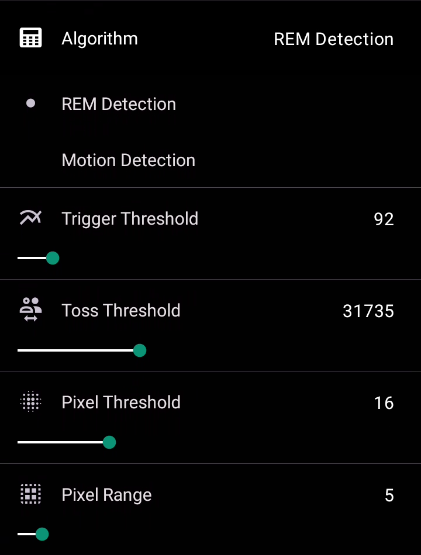
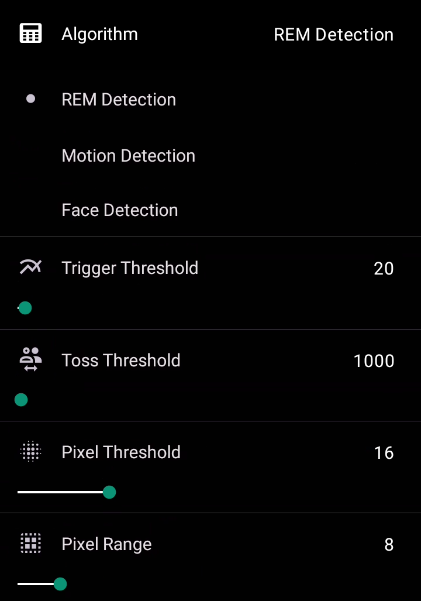
Make face detection configurable

diff --git a/software/inspec.py b/software/inspec.py
@@ -4,6 +4,7 @@ import ujson
 import machine
 import utime
 import time
+import image
 from led import lights
 from lsd import lucid_scribe_data
 from rem import rapid_eye_movement
@@ -21,19 +22,18 @@ class inspec_sensor:
         self.comms = inspec_comms()
         self.comms.message_received = self.ble_message_received
 
-        self.configure_sensor()
+        self.led = lights(self.config)
+        self.lsd = lucid_scribe_data(self.config)
+        self.face = face_detection(self.config, self.comms)
+        self.rem = rapid_eye_movement(self.config, self.face)
 
+        self.configure_sensor()
         self.img = sensor.snapshot()
         self.extra_fb.replace(self.img)
         self.total_variances = 0
         self.variances = 0
         
         machine.RTC().datetime((self.config.config['Year'], self.config.config['Month'], self.config.config['Day'], 0, 0, 0, 0, 0))
-        
-        self.led = lights(self.config)
-        self.lsd = lucid_scribe_data(self.config)
-        self.face = face_detection(self.config, self.comms)
-        self.rem = rapid_eye_movement(self.config, self.face)
 
         self.eye_movements = 0
         self.last_trigger = utime.ticks_ms() - self.config.config['TimeBetweenTriggers']
@@ -73,6 +73,8 @@ class inspec_sensor:
         if self.config.config['PixelFormat'] == 'JPEG':
             sensor.set_pixformat(sensor.JPEG)
             self.extra_fb = sensor.alloc_extra_fb(sensor.width(), sensor.height(), sensor.JPEG)
+
+        self.face.face_cascade = image.HaarCascade("frontalface", stages=self.config.config['FaceStages'])
 
         if self.config.config['TrackFace']:
             sensor.set_contrast(3)

diff --git a/software/config.py b/software/config.py
@@ -33,7 +33,10 @@ class inspec_config:
         self.config['CreateGifs'] = 1
         self.config['TrackFace'] = 0
         self.config['FaceFeatures'] = 16
-        self.config['DrawFace'] = 0
+        self.config['DrawFaceRegion'] = 0
+        self.config['FaceStages'] = 25
+        self.config['FaceThreshold'] = 0.75
+        self.config['FaceScaleFactor'] = 1.25
         self.config['BlinkCount'] = 8
         self.config['AutoGain'] = 0
         self.config['AutoExposure'] = 0
@@ -65,11 +68,17 @@ class inspec_config:
         string_settings = ["PixelFormat", "FrameSize", "LEDs", "Researcher", "Algorithm", "Mode", "AccessPointName", "AccessPointPassword", "WiFiNetworkName", "WiFiKey"]
         if setting in string_settings:
             self.config[setting] = value
-        else:
-            self.config[setting] = int(value)
+            return
+
+        float_settings = ["FaceThreshold", "FaceScaleFactor"]
+        if setting in float_settings:
+            self.config[setting] = float(value)
+            return
+
+        self.config[setting] = int(value)
 
     def is_sensor_setting(self, setting):
-        sensor_settings = ["PixelFormat", "PixelThreshold", "TriggerThreshold", "TossThreshold", "PixelRange", "FrameSize", "Brightness", "Contrast", "Saturation", "AutoGain", "AutoExposure"]
+        sensor_settings = ["PixelFormat", "PixelThreshold", "TriggerThreshold", "TossThreshold", "PixelRange", "FrameSize", "Brightness", "Contrast", "Saturation", "AutoGain", "AutoExposure", "FaceStages"]
         if setting in sensor_settings:
             return True
         return False

diff --git a/software/face.py b/software/face.py
@@ -6,7 +6,7 @@ class face_detection:
         self.config = config
         self.comms = comms
         self.has_face = False
-        self.face_cascade = image.HaarCascade("frontalface", stages=self.config.config['FaceFeatures'])
+        self.face_cascade = image.HaarCascade("frontalface", stages=self.config.config['FaceStages'])
         self.last_change = utime.ticks_ms() - 1000
         self.face_object = [0, 0, 1, 1]
 
@@ -16,7 +16,7 @@ class face_detection:
 
         now = utime.ticks_ms()
         has_face = False
-        face_objects = img.find_features(self.face_cascade, threshold=0.9, scale_factor=1.5)
+        face_objects = img.find_features(self.face_cascade, threshold=self.config.config['FaceThreshold'], scale_factor=self.config.config['FaceScaleFactor'])
         if face_objects:
             self.face_object = face_objects[0]
             has_face = True 
@@ -25,9 +25,12 @@ class face_detection:
                 self.has_face = has_face
                 self.comms.send_data("face", "1")
         
-        if self.config.get('DrawFace'):
+        if self.config.get('DrawFaceRegion'):
             if self.face_object[2] != img.width():
-                img.draw_rectangle(self.face_object, color=(70, 130, 180))
+                if self.config.config['PixelFormat'] == 'RGB565':
+                    img.draw_rectangle(self.face_object, color=(70, 130, 180))
+                else:
+                    img.draw_rectangle(self.face_object)
 
         if now - self.last_change > 1000:
             if not self.has_face:
